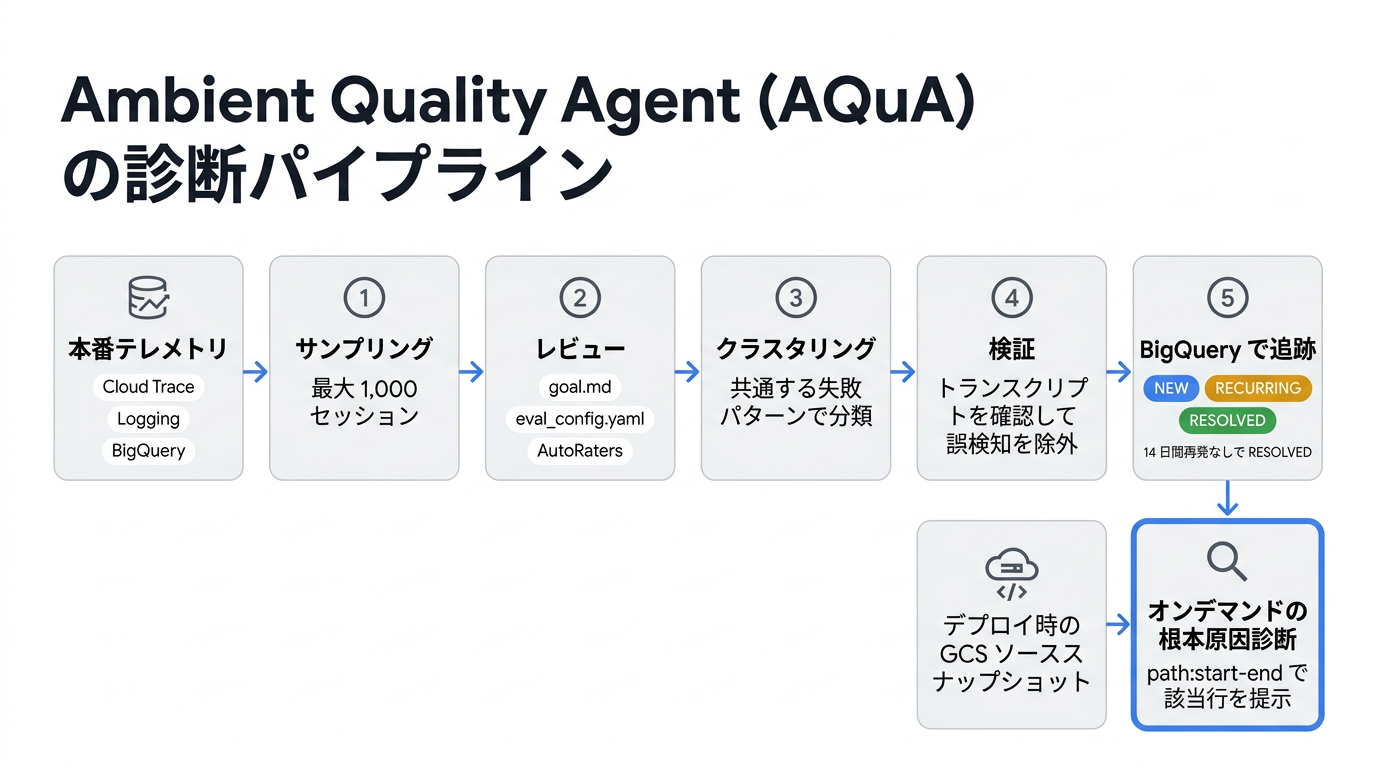
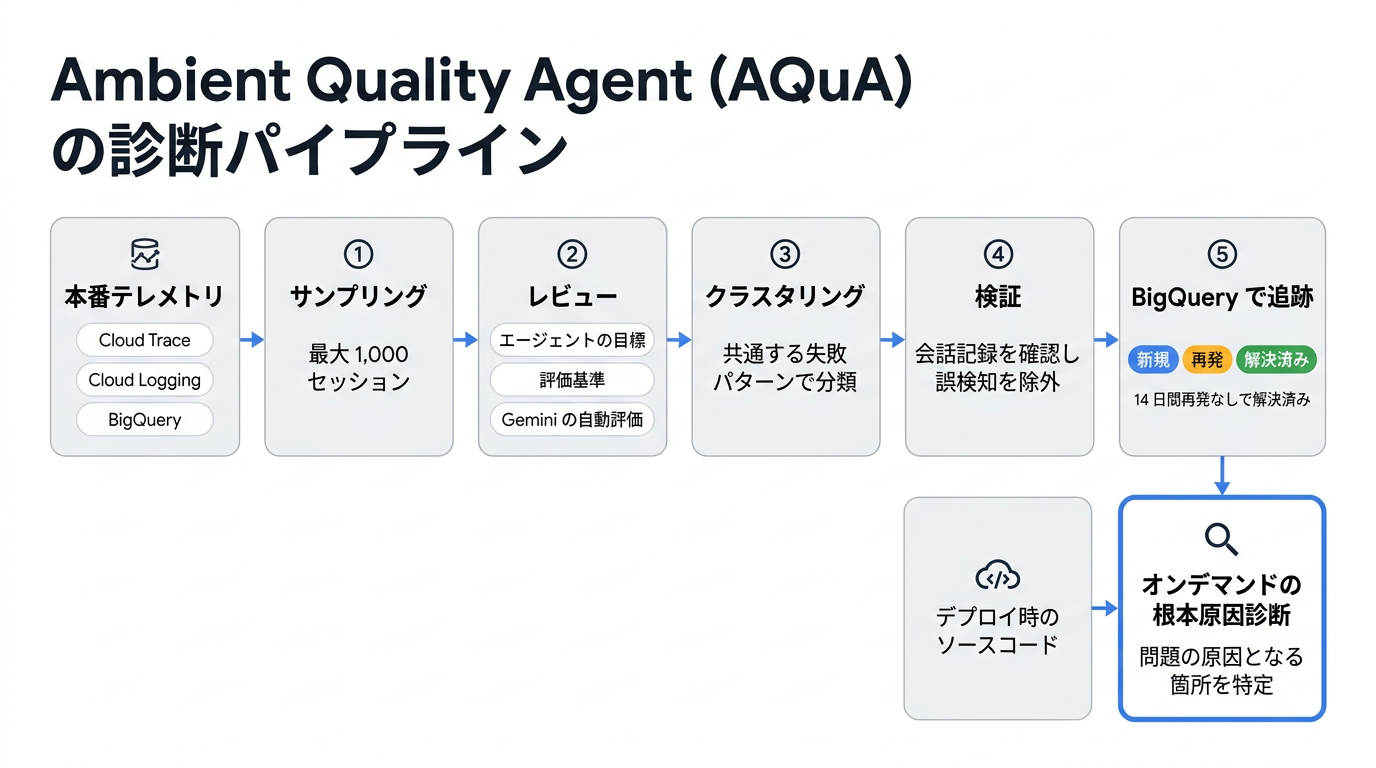
feat: add Japanese translation and update images for Google Cloud updates blog post

diff --git a/specs.md b/specs.md
@@ -2,6 +2,70 @@
 
 ## Change Log
 
+### [2026-11-02 22:15:49 +09:00]
+- Regenerated three images used by [md/[JP]Google_Cloud_updates_Nov_1.md](file:///Users/bharen/Documents/Blogs/md/%5BJP%5DGoogle_Cloud_updates_Nov_1.md) so they match the intro-level text. They were made with Gemini Nano Banana 2.1 and saved under the same filenames in `md/images/`, so the raw GitHub URLs in the post do not change.
+  - `Google_Cloud_updates_Nov_1_aqua_pipeline.png`:
+    - Review chips goal.md / eval_config.yaml / AutoRaters became 「エージェントの目標」「評価基準」「Gemini の自動評価」.
+    - 「path:start-end で該当行を提示」 became 「問題の原因となる箇所を特定」.
+    - 「デプロイ時の GCS ソーススナップショット」 became 「デプロイ時のソースコード」.
+    - Status pills NEW / RECURRING / RESOLVED became 「新規」「再発」「解決済み」, with the note 「14 日間再発なしで解決済み」.
+    - 「Logging」 became 「Cloud Logging」, and the verification card now reads 「会話記録を確認し誤検知を除外」. This also fixes the old line break that split 「トランスクリプト」.
+  - `Google_Cloud_updates_Nov_1_gemini_agent.png`: 「@agents.company.com の同僚エージェント」 became 「専用アカウントを持つ同僚エージェント」. The rest of the diagram is unchanged.
+  - `Google_Cloud_updates_Nov_1_overall.png` (hero image):
+    - Argon card: limited to GA status, matching the summary table (GA on 2026-10-13, lifecycle support until at least 2027-10-13, Singapore and UK data residency). Removed the `gemini-4-argon` subtitle, the continuation_token streaming line and the 50%-off launch price.
+    - Media card: 「Cloud Storage URI」 became 「Cloud Storage」.
+    - Agents card: 「agy plugin install 1 つで」 became 「コマンド 1 つで」.
+    - ADK card: 「HTTP 200 を返したまま表面化しない」 became 「エラーとして表面化しない」.
+- Process:
+  - Prompts were updated in `gen_infographics.py` in the conversation scratch folder. Every text line is given explicitly, and the script gained a `--src` option for edit passes.
+  - Two candidates were generated per image, and every text line was checked (zoomed crops for the hero image). Picked: AQuA candidate 1, Gemini agent candidate 2 (candidate 1 drew literal 「」 brackets around the title) and overview candidate 1 (exact date formatting).
+  - Previous images were backed up to `scratch/images_before_intro_cleanup/`. Installed files were verified by SHA-1 against the chosen candidates.
+
+### [2026-11-02 22:05:34 +09:00]
+- Removed code- and settings-level detail from [md/[JP]Google_Cloud_updates_Nov_1.md](file:///Users/bharen/Documents/Blogs/md/%5BJP%5DGoogle_Cloud_updates_Nov_1.md) so the post reads as a high-level intro. User feedback: the AQuA `<path>:<start>-<end>` notation made no sense, and terms such as `goal.md` and `eval_config.yaml` were too close to code or settings.
+  - Removed file names, config keys and parameters, CLI commands and flags, UI paths, header names, constraint and role IDs, model IDs, region codes, CVE IDs, and version and rule numbers. The affected sentences were rewritten in plain Japanese. Inline code spans went from 125 to 0.
+  - Tables:
+    - Dropped the 「エンドポイント・リージョン」 column from the media-model table and the 「モデル ID・デプロイ」 column from the Model Garden table. Both tables now have 4 columns.
+    - Useful facts from the dropped cells moved into the descriptions: Transcribe 「同期処理とリアルタイム処理（Live API）の両方に対応し、米国・EU リージョンで提供。」, TTS 「Flash と Flash-Lite の 2 モデルを提供。」, Claude 「Opus・Sonnet・Haiku の 3 モデル」, and the GPT-6 Astra / GPT-6.1 Sol / GPT-6 Luna names.
+  - Summary table:
+    - Removed `gemini-4-argon`, `agy plugin install` and `HTTP 200`.
+    - 「Cloud Storage URI」 became 「Cloud Storage」.
+    - The ADK row now says 「エラーとして表面化しない本番エージェントの障害を、デプロイ時のソースコードと照合して継続的に診断」.
+  - AI section:
+    - Argon paragraph: region codes became 米国・EU, シンガポール and 英国; the cyber-permissive model ID became 「サイバー防衛用途向けのバリアント」.
+    - Media table: removed Priority PayGo, `outputConfig.outputUriPrefix` and the literal Audio Tags, which are now described as 「ささやき声・ため息・笑い声・短い間など」.
+    - Model Garden table: removed the Claude thinking levels `Low`〜`Max`, the Responses API / Chat Completions names (now 「OpenAI 互換の API」) and DeepSeek's prefill parameter detail.
+    - Fine-tuning bullet: model IDs became product names, and region codes became 米国・EU.
+  - Agents section:
+    - Removed `@agents.company.com`, Antigravity `v2.28.2` and the `Main Screen → Customizations` path.
+    - The `plugin.json` bullet is now 「プラグインの 5 つの構成要素」, with no file names or hook event names.
+    - The `Accounts` tab became 「アプリ内で一元管理」.
+    - Gateway bullet: removed the API-key and PAYG billing sentence and `/boost` / `/teamwork-preview`.
+    - ADK heading and lead: code formatting removed. `HTTP 200 OK` became 「エラーとして表面化しないまま、正常なレスポンスを返し続けてしまいます」, and `agents-cli` became Agents CLI.
+    - ModelConsultTool: removed `adk-python` v2.11.0〜v2.13.0, `max_uses` / `session_max_uses` and `ForceEscalationPlugin`.
+    - Deferred Scheduling: removed `service_tier="deferred"` and HTTP `429`.
+    - AQuA: removed `goal.md`, `eval_config.yaml`, the rater metrics (`task_success`, `tool_use_quality`, `trajectory_quality`) and `<path>:<start>-<end>`. It now reads 「エージェントの目標や評価基準、Gemini による自動評価（AutoRaters）をもとに実行内容を採点し、デプロイ時のソースコードと照合して、問題の原因となっている箇所を特定します」.
+    - Computer Use: `configurableComputerUseToolSafetyPolicies` became 「組織全体の安全ポリシー」.
+    - Semantic governance: API names became provider names, and `sgpUserIntentMatching` became 「ユーザーの意図に沿っているかどうかをポリシーで評価」.
+    - Custom MCP: removed `us-central1` / `europe-west1` and `citation_mappings`.
+    - CodeMender: removed v0.12.0〜v0.17.0, `--deep`, `cm health`, `cm support-bundle`, SARIF 2.1.0, `.git/hooks` / `.codemender`, and `--plain` / `--jsonl`. The same features are described in plain words.
+  - Google Cloud general section:
+    - Removed the BigQuery region codes (Montreal, Toronto) and the Singapore, UK and Brazil codes.
+    - The observability header name became 「リクエストにラベルを付ければ、部門やプロジェクトごとにコストを集計」.
+    - The `Usage & Spending > Usage` path became 「管理画面から」.
+    - The `gemini-3.8-flash` ID became Gemini 3.8 Flash.
+  - Security section:
+    - IAM: `gcloud` / REST became 「CLI や API」, 「プリンシパル」 became 「ユーザー」, and `roles/admin` / `roles/writer` / `roles/reader` were removed.
+    - Model Armor: the constraint ID became 「データレジデンシーへの準拠がデフォルトで必須」, filter `v3` became 「新バージョン」, and region codes were removed.
+    - PHP: the CVE IDs became 「PHP の重大な脆弱性 2 件（CVSS 9.2）」; removed the PHP versions and `GLOBAL.26.015`.
+    - SecOps: removed SOAR `6.3.103` / `6.3.104` and `Source Grouping Identifier`.
+  - 次のステップ 2 and 3: now 「ADK を最新版にアップグレードし、ModelConsultTool を試してみましょう」 and 「Antigravity を最新版にアップデートし、Plugin Marketplace からプラグインを探してインストールしてみてください」.
+- Verified by script:
+  - All 80 links and 3 images are unchanged, and every table has consistent column counts.
+  - A scan of the prose (URLs excluded) finds no backticks, file names, flags, IDs, region codes, versions or paths. The only matches are brand names (xAI, iManage, vLLM) and the benchmark name 「Intelligence Index v5.0」.
+  - The file is now 157 lines. A pre-change copy is in the conversation scratch folder (`JP_Nov_1_before_intro_cleanup.md`).
+- The three images that still showed code-like labels were regenerated right afterwards (see the 22:15:49 entry above).
+
 ### [2026-11-02 20:12:10 +09:00]
 - Removed all references to retired, deprecated or phased-out products from [md/[JP]Google_Cloud_updates_Nov_1.md](file:///Users/bharen/Documents/Blogs/md/%5BJP%5DGoogle_Cloud_updates_Nov_1.md), so the post covers new releases only:
   - Deleted the 「モデルライフサイクルの主要な日程」 topic: the retired Gemini 2.5 family (and the automatic migration of Canada/Japan sessions), plus the deprecated `gemini-3.6-flash` (Nov 19, 2026) and `gemini-3.7-flash` (Jan 28, 2027).
